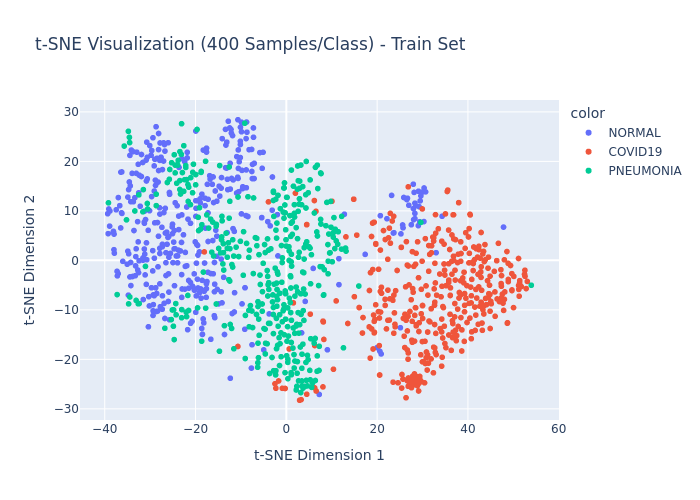
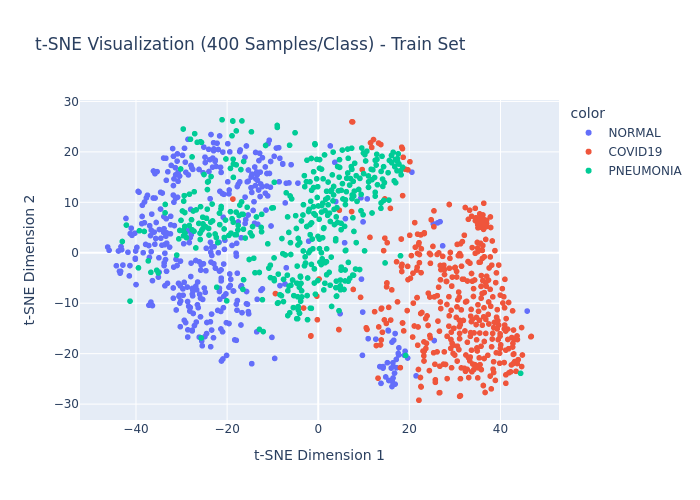
Final Commit

diff --git a/training/train.py b/training/train.py
@@ -216,7 +216,7 @@ if __name__ == "__main__":
     """
     parser = argparse.ArgumentParser(description='mlflow logging for lung disease prediction')
     parser.add_argument('--run_name', type=str, default='run_1', help='Name of the run')
-    parser.add_argument('--num_epochs', type=int, default=1, help='Epochs for model training')
+    parser.add_argument('--num_epochs', type=int, default=10, help='Epochs for model training')
     parser.add_argument('--learning_rate', type=float, default=0.0003, help='Learning Rate for training')
     parser.add_argument('--batch_size', type=int, default=32, help='Batch size for training')
     parser.add_argument('--eval_frequency', type=int, default=1, help='Frequency for evaluation on validation dataset')

diff --git a/airflow/dags/move_to_dataset.py b/airflow/dags/move_to_dataset.py
@@ -42,7 +42,7 @@ def move_to_dataset(db_path="/opt/airflow/uploads/predictions.db", datasets_root
                 print(f"Failed to save image to {image_path}: {e}")
                 continue
 
-            # Delete the record after saving the imagedoc
+            #Delete the record after saving the imagedoc
             # cursor.execute("DELETE FROM prediction WHERE id = ?", (row[0],))
 
         conn.commit()
